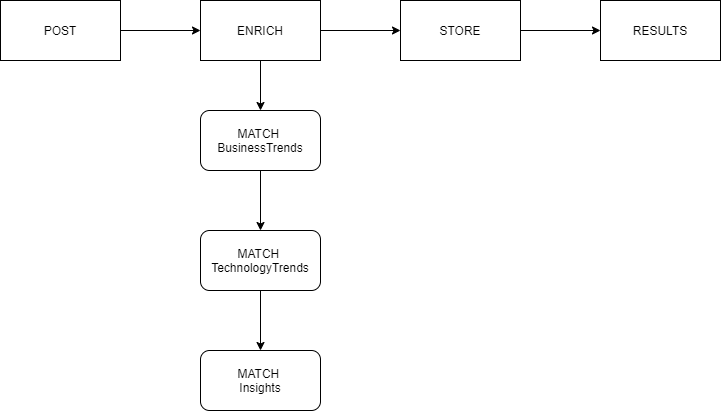
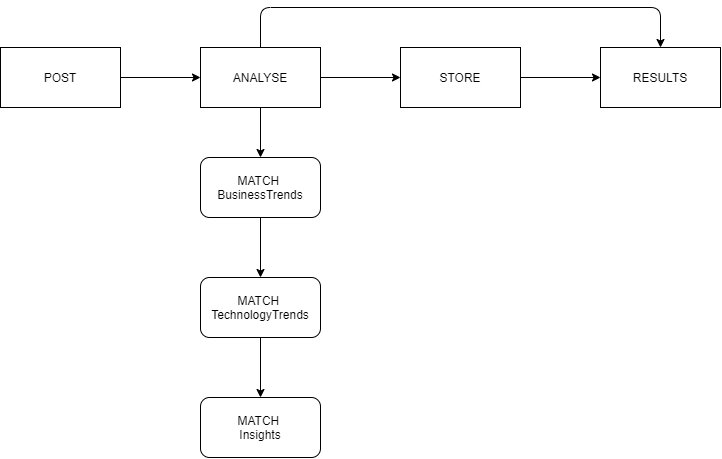
:pencil: scnerios

diff --git a/Modules/Solutions/SignPostAPI/readme.md b/Modules/Solutions/SignPostAPI/readme.md
@@ -10,6 +10,19 @@ The signpost API creates an enriched representation of any asset within the DXC 
   - Business Trends
   - Text Analytics Insights
 
+
+## Scenarios
+
+![image](imagee/../images/Scenerios.png)<br>
+
+### Use Cases
+
+- Analyse and store (default)
+  - Content is analysed and stored within the DXC Graph database
+- Analyse only
+  - Content is passed through the analyse engine only and matched trends and insights are returned to the requestor 
+
+
 ## Input Flow
 
 ![image](images/flow.png)<br>
@@ -36,7 +49,8 @@ The signpost API creates an enriched representation of any asset within the DXC 
 
 |property|description|notes
 |---|---|---|
-|solution.eUID|Existing UID of asset from external source location|Optional
+|eUID|Existing UID of asset from external source location|Optional
+|Store|Store the simplified solution model and enrichments within the graph|default=yes
 |solution.referenceable|Can the asset be shared with DXC clients (public classification)|default=no
 |solution.searchable|Is the asset included within search and recommendation results|default=true
 |solution.isPrivate|Is the asset marked as private and restricted to only named contacts|default=false
@@ -55,7 +69,7 @@ The signpost API creates an enriched representation of any asset within the DXC 
 |attachment.name| | Source Location
 
 
-## Enrichment
+## Analyse
 
 The following input properties are analysed 
 
